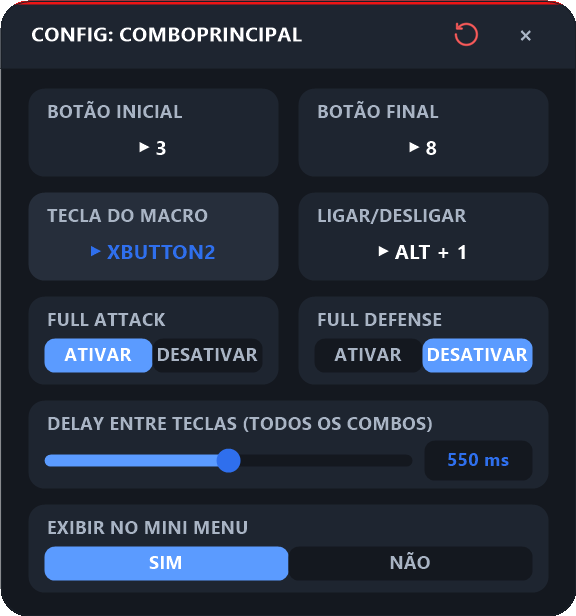
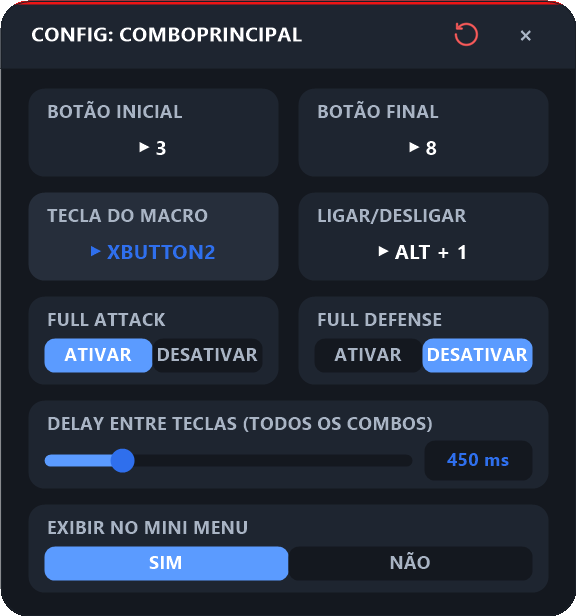
Combos: delay entre teclas de 300 a 1000 ms (padrão 450) e edição do valor do slider com o jogo em foco (v2.5.0)
- Delay entre teclas (todos os combos): faixa 300–1000 ms, padrão 450 ms;
  valores fora da faixa no config.ini são ajustados.
- Clicar no número de um slider para digitar não fecha mais a edição na
  hora quando o jogo estava em foco: sai o WinActivate (cujos truques
  desativavam a tela por um instante) e a perda de foco só confirma se
  durar 250 ms.

Changed region(s): [[0.1875, 0.7094, 0.4375, 0.7711], [0.7812, 0.7403, 0.8125, 0.7711]]

diff --git a/docs/02-combos.md b/docs/02-combos.md
@@ -37,7 +37,7 @@ Passe o mouse na HUD e clique no **⚙ abaixo do ícone do Combo Principal** (ou
 | **4** | **Ligar/Desligar** | Atalho para ligar/desligar este combo sem abrir a HUD (aceita `Ctrl`/`Alt`/`Shift`, ex.: `Alt + 1`) |
 | **5** | **Full Attack** | `ATIVAR` envia a tecla de Full Attack **antes** do combo |
 | **6** | **Full Defense** | `ATIVAR` envia a tecla de Full Defense **depois** do combo |
-| **7** | **Delay Entre Teclas** | Intervalo entre cada tecla (300 a 800 ms, padrão 550 ms). **Vale para todos os combos** |
+| **7** | **Delay Entre Teclas** | Intervalo entre cada tecla (300 a 1000 ms, padrão 450 ms — abaixo de 300 ms o jogo perde teclas). **Vale para todos os combos** |
 | **8** | **Exibir no Mini Menu** | `NÃO` esconde o ícone deste combo da HUD |
 
 ### Passo a passo
@@ -48,7 +48,7 @@ Passe o mouse na HUD e clique no **⚙ abaixo do ícone do Combo Principal** (ou
    > 💡 Botões laterais do mouse (`XButton1`/`XButton2`) são práticos: você mira com o mouse e solta o combo sem tirar a mão.
 4. *(Opcional)* **Ligar/Desligar** (4): defina um atalho, ex.: `Alt + 1`.
 5. *(Opcional)* **Full Attack / Full Defense** (5 e 6): primeiro defina as teclas em [Configurações Gerais](07-configuracoes-gerais.md#passo-6--teclas-de-full-attack-e-full-defense); depois clique em `ATIVAR` aqui.
-6. **Delay** (7): comece com o padrão (550 ms). Se habilidades estiverem "falhando", aumente; se estiver sobrando tempo, diminua.
+6. **Delay** (7): comece com o padrão (450 ms). Se habilidades estiverem "falhando", aumente; se estiver sobrando tempo, diminua (até 300 ms).
 7. Feche a tela no **×**.
 
 > ⚠ **Prefixo F:** o combo envia `F3…F8` ou `3…8` conforme a opção **[Prefixo [F]](07-configuracoes-gerais.md#passo-1--prefixo-f)** das Configurações Gerais. Confira se bate com as teclas das suas habilidades no jogo.
@@ -73,10 +73,10 @@ Passe o mouse na HUD e clique no **⚙ abaixo do ícone do Combo Principal** (ou
 | Prefixo [F] | `SIM (F1..F9)` |
 | Full Attack | Ativado (tecla `F10`) |
 | Full Defense | Desativado |
-| Delay | 550 ms |
+| Delay | 450 ms |
 | Tecla do Macro | `XButton2` |
 
-Ao apertar `XButton2` no jogo: `F10` → `F3` → 550 ms → `F4` → 550 ms → … → `F8`.
+Ao apertar `XButton2` no jogo: `F10` → `F3` → 450 ms → `F4` → 450 ms → … → `F8`.
 
 ---
 

diff --git a/README.md b/README.md
@@ -225,12 +225,12 @@ Com os ícones na vertical (Configurações Gerais → ÍCONES DA HUD), vira uma
 
 Controla o **intervalo em milissegundos** entre cada tecla enviada no combo. Aparece nas telas do **Combo Principal**, **Combo Secundário** e **Combo Revive**, mas é **um valor só**: mexer em uma tela altera para todos os combos (e resetar um combo não apaga esse valor).
 
-- **Valor menor** = combo mais rápido (ex: 400ms)
-- **Valor maior** = combo mais lento, mais seguro (ex: 700ms)
-- **Padrão:** 550ms (ajustável de 300 a 800ms)
+- **Padrão:** 450ms (ajustável de 300 a 1000ms — abaixo de 300ms o jogo perde teclas)
+- **Valor menor** = combo mais rápido (mínimo 300ms)
+- **Valor maior** = combo mais lento, mais seguro (ex: 600ms)
 - O intervalo real entre as teclas é o valor configurado (com ~10ms de margem).
 
-> Ajuste conforme a latência do servidor. Em servidores com alta latência, aumente o delay para evitar que habilidades sejam perdidas.
+> Se alguma habilidade estiver sendo perdida (ex.: servidor com alta latência), aumente o delay.
 
 ---
 
